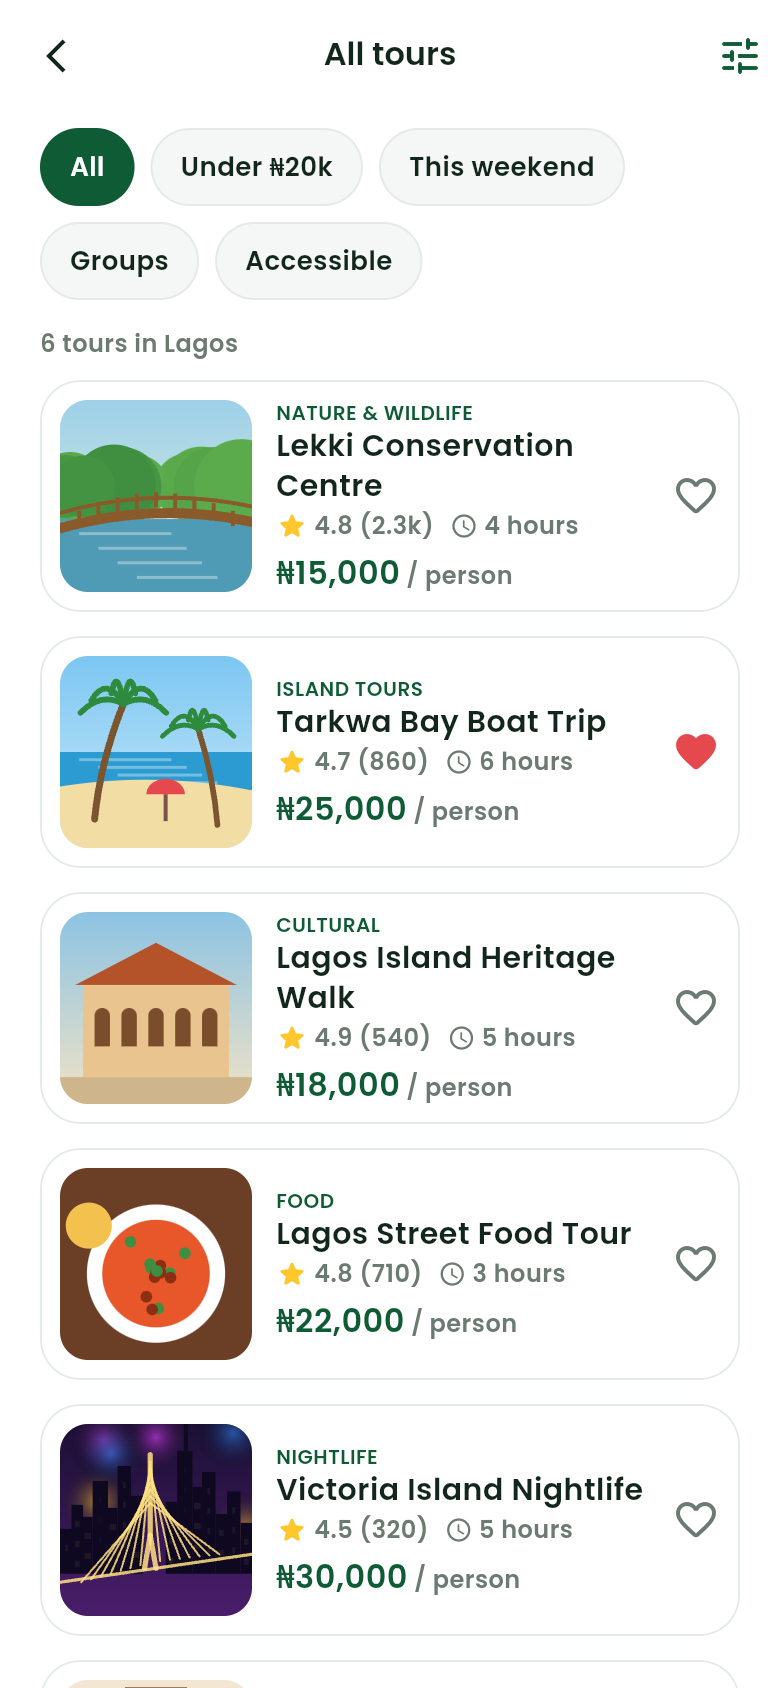
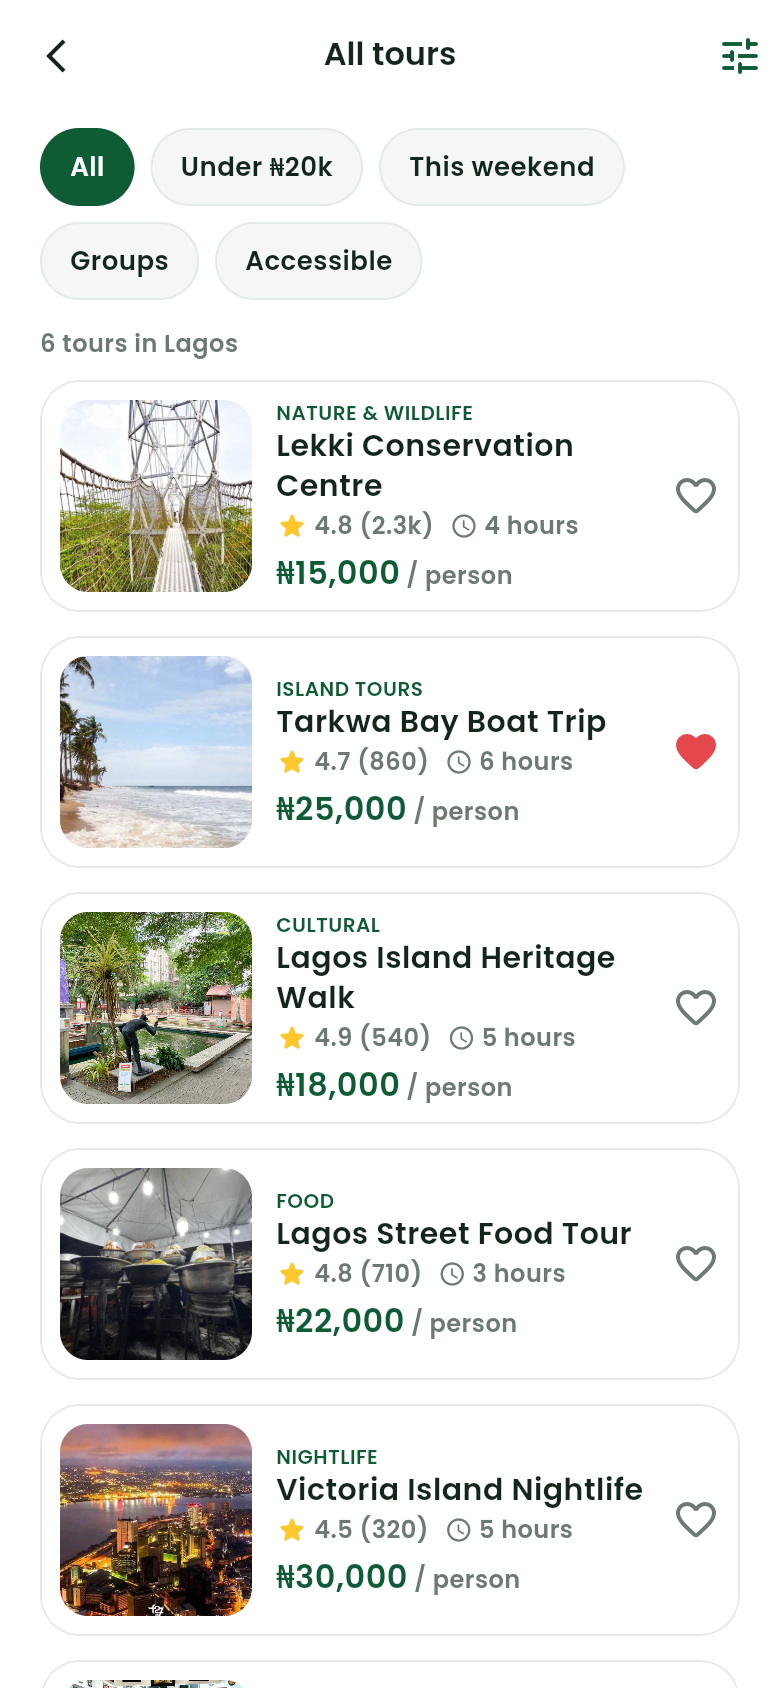
Use real photos of Lagos landmarks in the rider app
Adds seven photos supplied by the Cabo team to rider-app/assets/photos/:
the Lekki-Ikoyi Link Bridge, Lekki Conservation Centre, Nike Art
Gallery, a Lagos beach, Freedom Park, a street food stall and Lagos at
night. The welcome and sign-in backgrounds, destination cards, tour and
attraction pages and events now show these instead of illustrations.
The accessible van keeps its illustration until a photo is supplied.

CREDITS.md lists each photo and notes that usage rights should be
confirmed before release. Rider screenshots are regenerated.

Claude-Session: https://claude.ai/code/session_01T7YmqDDC7fZWbSZu596hub

Changed region(s): [[0.0615, 0.2156, 0.3385, 0.955], [0.0923, 0.9858, 0.3077, 1.0]]

diff --git a/rider-app/lib/widgets/scenes.dart b/rider-app/lib/widgets/scenes.dart
@@ -15,12 +15,13 @@ enum SceneKind {
   heritage('freedom-park.jpg'),
   food('lagos-street-food.jpg'),
   nightlife('lagos-at-night.jpg'),
-  van('accessible-van.jpg');
+  // No photo supplied yet; set to 'accessible-van.jpg' once one is added.
+  van(null);
 
   const SceneKind(this.photo);
 
-  /// File name inside `assets/photos/`.
-  final String photo;
+  /// File name inside `assets/photos/`, or null to use the illustration.
+  final String? photo;
 }
 
 class Scene extends StatelessWidget {
@@ -32,16 +33,19 @@ class Scene extends StatelessWidget {
   @override
   Widget build(BuildContext context) {
     final painted = CustomPaint(painter: _ScenePainter(kind));
+    final photo = kind.photo;
     return ClipRRect(
       borderRadius: BorderRadius.circular(radius),
       child: SizedBox(
         height: height,
         width: double.infinity,
-        child: Image.asset(
-          'assets/photos/${kind.photo}',
-          fit: BoxFit.cover,
-          errorBuilder: (_, _, _) => painted,
-        ),
+        child: photo == null
+            ? painted
+            : Image.asset(
+                'assets/photos/$photo',
+                fit: BoxFit.cover,
+                errorBuilder: (_, _, _) => painted,
+              ),
       ),
     );
   }

diff --git a/rider-app/README.md b/rider-app/README.md
@@ -30,7 +30,8 @@ GitHub Actions runs the tests and builds a release APK on every push that change
 | --- | --- |
 | `lib/routes.dart` | Every screen with its section number and route |
 | `lib/screens/` | One file per section: onboarding, home, ride, shuttle, tours, explore, wallet, safety, bookings, profile, system |
-| `lib/widgets/` | Shared pieces: buttons, cards, the logo, the painted map and destination illustrations, bottom navigation |
+| `lib/widgets/` | Shared pieces: buttons, cards, the logo, the painted map, destination photos and their fallback illustrations, bottom navigation |
+| `assets/photos/` | Destination photos and their credits |
 | `lib/data.dart` | Sample places and tours, plus naira and home-currency formatting |
 | `lib/theme.dart` | Brand colours and text styles |
 | `tool/screenshots.js` | Regenerates `screenshots/rider/` |
@@ -45,7 +46,7 @@ node tool/screenshots.js build/web ../screenshots/rider
 
 ## Not done yet
 
-- **Photos**: destinations, tours and vehicles use painted illustrations (`lib/widgets/scenes.dart`). Swap in real photography when it is available.
+- **Photos**: destinations and tours use photos from `assets/photos/` (credits and notes in `assets/photos/CREDITS.md`). The accessible van still uses an illustration until a photo is added; any missing photo falls back to the illustration in `lib/widgets/scenes.dart`.
 - **Maps** are drawn by the app (`lib/widgets/map.dart`) as a stand-in for Google Maps or Mapbox.
 - **Data** is hard-coded sample data until the backend exists. Home-currency amounts use a fixed sample rate.
 - **Launcher icon** is still the Flutter default.

diff --git a/rider-app/assets/photos/CREDITS.md b/rider-app/assets/photos/CREDITS.md
@@ -4,5 +4,19 @@ Photos shown in the rider app. Each file is used by one `SceneKind` in
 `lib/widgets/scenes.dart`; if a file is missing the app shows a painted
 illustration instead.
 
-| File | Shows | Author | License | Source |
-| --- | --- | --- | --- | --- |
+All photos below were supplied by the Cabo team in October 2026. Confirm the
+right to use each one (and add the photographer's credit) before a public
+release.
+
+| File | Shows | Used for | Notes |
+| --- | --- | --- | --- |
+| `lekki-ikoyi-bridge.jpg` | Lekki-Ikoyi Link Bridge | Welcome and sign-in backgrounds | |
+| `lekki-conservation-centre.jpg` | Lekki Conservation Centre canopy walkway | Nature tours and attraction | |
+| `nike-art-gallery.jpg` | Nike Art Gallery interior | Art attraction and tour | |
+| `tarkwa-bay.jpg` | Lagos beach with palm trees | Tarkwa Bay beach and boat trip | |
+| `freedom-park.jpg` | Freedom Park, Lagos Island | Heritage walk and history | |
+| `lagos-street-food.jpg` | Night food stall | Street food tour | |
+| `lagos-at-night.jpg` | Lagos skyline and lagoon at night | Nightlife tour and events | Carries an "f27" watermark, so it is probably a third-party photo |
+
+`accessible-van.jpg` is not supplied yet, so the accessible rides screen
+still uses the illustration.
